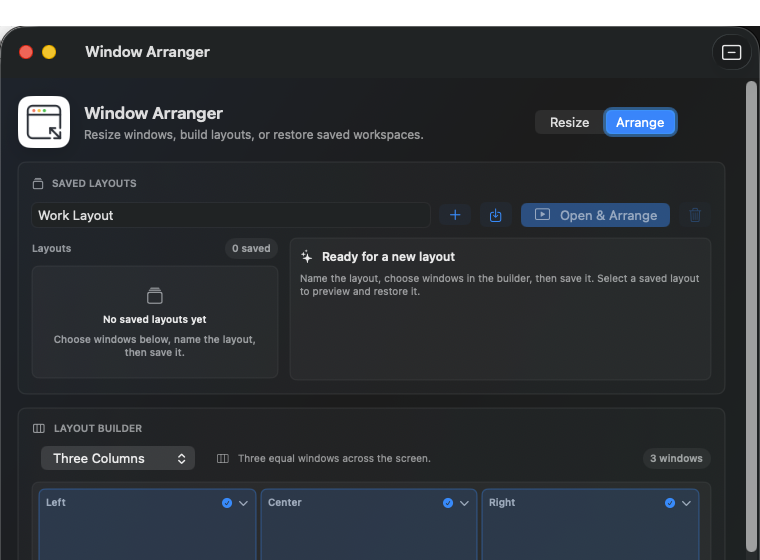
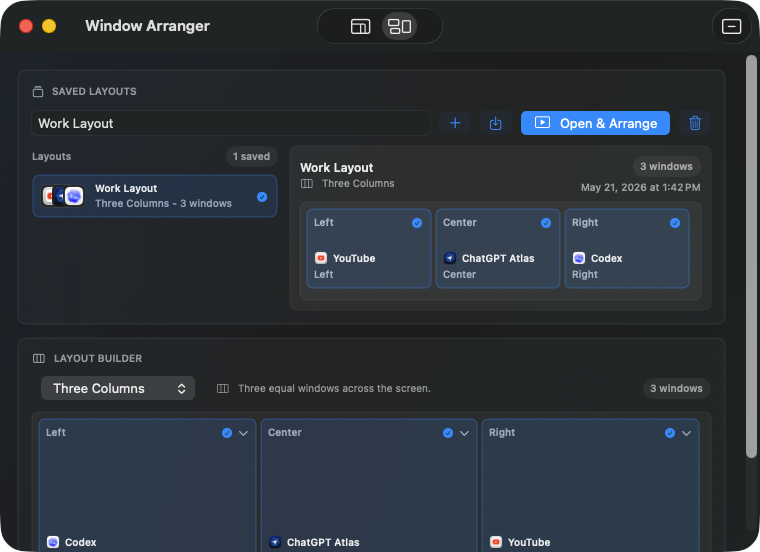
Move mode switcher into toolbar

diff --git a/source/Views/ContentView.swift b/source/Views/ContentView.swift
@@ -12,14 +12,6 @@ struct ContentView: View {
 
         ScrollView {
             VStack(alignment: .leading, spacing: 14) {
-                HStack(alignment: .center, spacing: 16) {
-                    HeaderView()
-                        .layoutPriority(1)
-
-                    WorkflowModePicker(store: store)
-                        .frame(width: 240)
-                }
-
                 if !store.hasAccessibilityAccess {
                     PermissionBanner(
                         promptAction: store.requestAccessibilityAccess,
@@ -40,6 +32,11 @@ struct ContentView: View {
         .background(WindowBackground())
         .tint(.blue)
         .toolbar {
+            ToolbarItem(placement: .principal) {
+                WorkflowModePicker(store: store)
+                    .frame(width: 126)
+            }
+
             ToolbarItem {
                 Button(action: store.compactToDock) {
                     Label("Mini Mode", systemImage: "minus.rectangle")
@@ -82,35 +79,71 @@ struct ContentView: View {
 
 private struct WorkflowModePicker: View {
     @Bindable var store: WindowArrangerStore
+    @State private var visualMode: WindowWorkflowMode?
+    @State private var pendingMode: WindowWorkflowMode?
+
+    private let pillTransitionDuration: TimeInterval = 0.22
 
     var body: some View {
-        Picker("Mode", selection: workflowModeBinding) {
+        Picker("Mode", selection: visualWorkflowModeBinding) {
             ForEach(WindowWorkflowMode.allCases) { mode in
-                Label(mode.title, systemImage: mode.symbolName)
+                Image(systemName: mode.symbolName)
                     .tag(mode)
+                    .help(mode.title)
+                    .accessibilityLabel(mode.title)
             }
         }
         .pickerStyle(.segmented)
         .labelsHidden()
-        .disabled(store.isExecuting || store.isPickingWindow)
+        .disabled(store.isExecuting || store.isPickingWindow || pendingMode != nil)
+        .onAppear {
+            visualMode = store.workflowMode
+        }
+        .onChange(of: store.workflowMode) { _, newMode in
+            guard pendingMode == nil else {
+                return
+            }
+
+            visualMode = newMode
+        }
     }
 
-    private var workflowModeBinding: Binding<WindowWorkflowMode> {
+    private var visualWorkflowModeBinding: Binding<WindowWorkflowMode> {
         Binding(
             get: {
-                store.workflowMode
+                visualMode ?? store.workflowMode
             },
             set: { newMode in
-                guard newMode != store.workflowMode else {
+                let currentMode = visualMode ?? store.workflowMode
+
+                guard newMode != currentMode, pendingMode == nil else {
                     return
                 }
 
-                AppDelegate.shared?.fitMainWindowToContentSize(
-                    newMode.contentSize,
-                    prepareContent: {
-                        store.workflowMode = newMode
+                visualMode = newMode
+                pendingMode = newMode
+
+                DispatchQueue.main.asyncAfter(deadline: .now() + pillTransitionDuration) {
+                    guard pendingMode == newMode else {
+                        return
                     }
-                )
+
+                    guard let appDelegate = AppDelegate.shared else {
+                        store.workflowMode = newMode
+                        pendingMode = nil
+                        return
+                    }
+
+                    appDelegate.fitMainWindowToContentSize(
+                        newMode.contentSize,
+                        prepareContent: {
+                            store.workflowMode = newMode
+                        },
+                        completion: {
+                            pendingMode = nil
+                        }
+                    )
+                }
             }
         )
     }

diff --git a/source/Views/ComponentViews.swift b/source/Views/ComponentViews.swift
@@ -141,25 +141,6 @@ private struct CompactLayoutPicker: View {
     }
 }
 
-struct HeaderView: View {
-    var body: some View {
-        HStack(spacing: 14) {
-            AppIconView()
-
-            VStack(alignment: .leading, spacing: 3) {
-                Text("Window Arranger")
-                    .font(.title2.weight(.semibold))
-
-                Text("Resize windows, build layouts, or restore saved workspaces.")
-                    .font(.callout)
-                    .foregroundStyle(.secondary)
-            }
-
-            Spacer()
-        }
-    }
-}
-
 struct AppIconView: View {
     var size: CGFloat = 52
     var cornerRadius: CGFloat = 12

diff --git a/source/Models/WindowModels.swift b/source/Models/WindowModels.swift
@@ -69,8 +69,8 @@ enum WindowWorkflowMode: String, CaseIterable, Identifiable, Hashable {
 
     var contentSize: CGSize {
         switch self {
-        case .resize: CGSize(width: 760, height: 390)
-        case .arrange: CGSize(width: 760, height: 560)
+        case .resize: CGSize(width: 760, height: 300)
+        case .arrange: CGSize(width: 760, height: 500)
         }
     }
 }